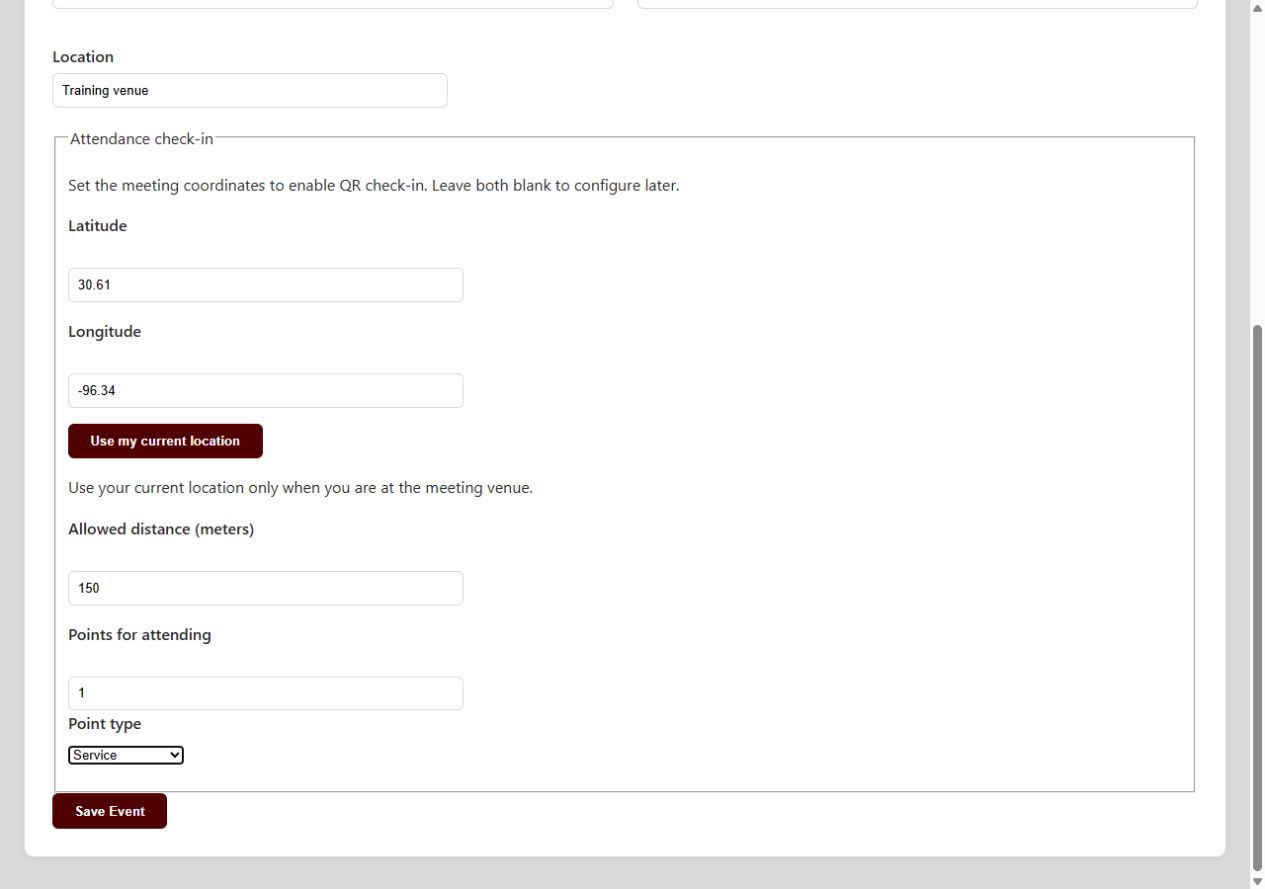
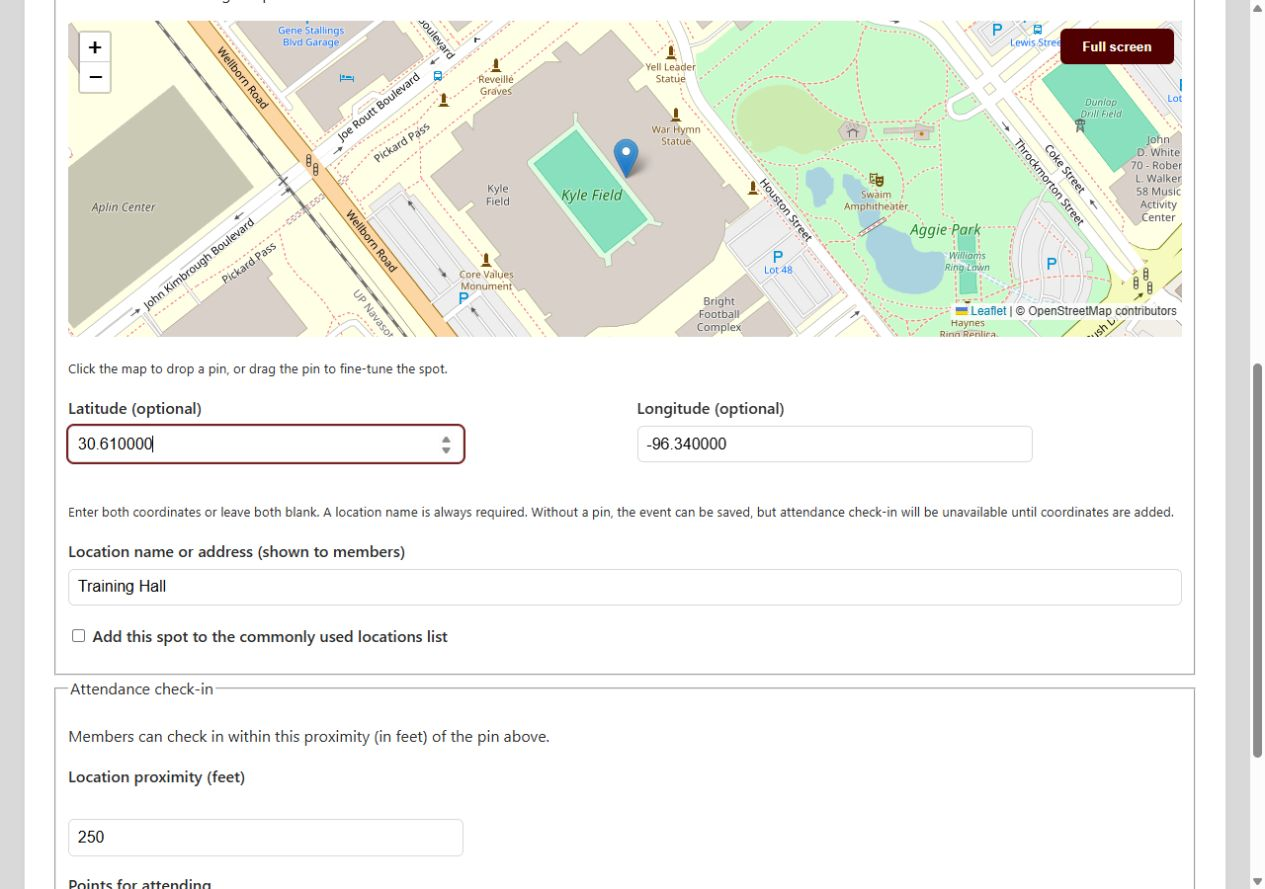
P5-45 Preserve event drafts when the location map loads or fails

diff --git a/app/javascript/controllers/location_picker_controller.js b/app/javascript/controllers/location_picker_controller.js
@@ -1,7 +1,9 @@
 import { Controller } from "@hotwired/stimulus"
 
+let leafletLoad
+
 // Officer-facing location picker: search -> pin on map -> drag/click to adjust,
-// or choose from a saved list. Writes latitude/longitude into hidden fields and
+// or choose from a saved list. Writes latitude/longitude into coordinate fields and
 // a readable name into the visible location field. Leaflet is loaded globally (L).
 export default class extends Controller {
   static targets = ["query", "results", "status", "map", "mapFrame", "mapError",
@@ -20,14 +22,20 @@ export default class extends Controller {
     pinZoom: { type: Number, default: 17 }
   }
 
-  connect() {
+  async connect() {
     this.autoNamed = false
     this.timer = null
-    this.restorePending()
-    this.initMap()
+    const connection = this.connection = {}
+    try {
+      await this.loadLeaflet()
+      if (this.connection === connection && this.element.isConnected) this.initMap()
+    } catch (_) {
+      if (this.connection === connection && this.element.isConnected) this.showMapError()
+    }
   }
 
   disconnect() {
+    this.connection = null
     if (this.fullscreen) this.exitFullscreen()
     clearTimeout(this.timer)
     this.searchAbort?.abort()
@@ -35,40 +43,42 @@ export default class extends Controller {
     this.destroyMap()
   }
 
-  // ---- reload (map fails to load on first Turbo visit) -------------------
+  // Share one asynchronous library request across Turbo visits. Never reload
+  // the page to recover a map: the rest of the event form is an unsaved draft.
+  loadLeaflet() {
+    if (window.L) return Promise.resolve()
+    if (leafletLoad) return leafletLoad
 
-  get pendingKey() { return `pendingLocation:${window.location.pathname}` }
-
-  maybeReload() {
-    if (this.map || this.reloaded) return   // map is fine, or we already reloaded once
-    sessionStorage.setItem(this.pendingKey, JSON.stringify({
-      lat: this.latitudeTarget.value,
-      lng: this.longitudeTarget.value,
-      name: this.nameTarget.value,
-      autoNamed: this.autoNamed
-    }))
-    window.location.reload()
-  }
-
-  restorePending() {
-    const raw = sessionStorage.getItem(this.pendingKey)
-    if (!raw) return
-    sessionStorage.removeItem(this.pendingKey)
-    this.reloaded = true
-    try {
-      const saved = JSON.parse(raw)
-      this.latitudeTarget.value = saved.lat
-      this.longitudeTarget.value = saved.lng
-      this.nameTarget.value = saved.name
-      this.autoNamed = saved.autoNamed
-    } catch (_) { /* ignore bad data */ }
+    leafletLoad = new Promise((resolve, reject) => {
+      const script = document.createElement("script")
+      script.src = "https://unpkg.com/leaflet@1.9.4/dist/leaflet.js"
+      script.crossOrigin = ""
+      script.async = true
+      const fail = () => {
+        clearTimeout(timeout)
+        script.remove()
+        leafletLoad = null
+        reject(new Error("The map could not be loaded"))
+      }
+      const timeout = setTimeout(fail, 10000)
+      script.addEventListener("error", fail, { once: true })
+      script.addEventListener("load", () => {
+        clearTimeout(timeout)
+        window.L ? resolve() : fail()
+      }, { once: true })
+      document.head.appendChild(script)
+    })
+    return leafletLoad
   }
 
   // ---- map ---------------------------------------------------------------
 
   initMap() {
     try {
-      if (typeof L === "undefined") throw new Error("Leaflet did not load")
+      const L = window.L
+      if (!L) throw new Error("Leaflet did not load")
+      this.mapFrameTarget.hidden = false
+      this.mapErrorTarget.hidden = true
 
       const lat = parseFloat(this.latitudeTarget.value)
       const lng = parseFloat(this.longitudeTarget.value)
@@ -169,7 +179,7 @@ export default class extends Controller {
       this.marker.setLatLng([lat, lng])
       return
     }
-    this.marker = L.marker([lat, lng], {
+    this.marker = window.L.marker([lat, lng], {
       draggable: true,
       keyboard: true,
       title: "Event location (drag to adjust)"
@@ -192,7 +202,6 @@ export default class extends Controller {
       this.nameTarget.value = label
       this.autoNamed = true
       this.setStatus("Location selected. Drag the pin to fine-tune it.")
-      this.maybeReload()
     } else if (reverse && (this.nameTarget.value.trim() === "" || this.autoNamed)) {
       this.reverseLookup(lat, lng)
     } else {
@@ -213,21 +222,34 @@ export default class extends Controller {
 
   useMyLocation() {
     if (!navigator.geolocation) {
-      this.setStatus("Your browser can't share its location. Search or use the map instead.", { error: true })
+      this.setStatus("Your browser can't share its location. Enter coordinates manually, search, or choose from the list.", { error: true })
       return
     }
     this.setStatus("Finding your location…")
     navigator.geolocation.getCurrentPosition(
       (position) => {
+        if (!this.element.isConnected) return
         this.setPoint(position.coords.latitude, position.coords.longitude, { reverse: true, recenter: true })
       },
-      () => this.setStatus("Couldn't get your location. Search or use the map instead.", { error: true }),
+      () => {
+        if (!this.element.isConnected) return
+        this.setStatus("Couldn't get your location. Your event details are still here. Enter coordinates manually, search, or choose from the list.", { error: true })
+      },
       { enableHighAccuracy: true, timeout: 10000 }
     )
   }
 
   nameEdited() {
     this.autoNamed = false
+  }
+
+  coordinatesEdited() {
+    const lat = parseFloat(this.latitudeTarget.value)
+    const lng = parseFloat(this.longitudeTarget.value)
+    if (Number.isFinite(lat) && Math.abs(lat) <= 90 && Number.isFinite(lng) && Math.abs(lng) <= 180) {
+      this.placeMarker(lat, lng)
+      if (this.map) this.map.setView([lat, lng], this.pinZoomValue)
+    }
   }
 
   // ---- search ------------------------------------------------------------
@@ -306,11 +328,9 @@ export default class extends Controller {
       } else {
         this.setStatus("Pin placed, but no address was found. Type a name for this spot below.", { error: true })
       }
-      this.maybeReload()
     } catch (error) {
       if (error.name === "AbortError") return
       this.setStatus("Pin placed, but the address lookup failed. Type a name for this spot below.", { error: true })
-      this.maybeReload()
     }
   }
 
@@ -340,13 +360,15 @@ export default class extends Controller {
   validate(event) {
     const lat = parseFloat(this.latitudeTarget.value)
     const lng = parseFloat(this.longitudeTarget.value)
+    const noPoint = this.latitudeTarget.value.trim() === "" && this.longitudeTarget.value.trim() === ""
     const pointOk = Number.isFinite(lat) && Math.abs(lat) <= 90 &&
                     Number.isFinite(lng) && Math.abs(lng) <= 180
 
-    if (!pointOk || this.nameTarget.value.trim() === "") {
+    if ((!noPoint && !pointOk) || this.nameTarget.value.trim() === "") {
       event.preventDefault()
-      this.setStatus(pointOk ? this.missingNameMessageValue : this.missingLocationMessageValue, { error: true })
-      ;(pointOk ? this.nameTarget : this.queryTarget).focus()
+      const missingName = this.nameTarget.value.trim() === ""
+      this.setStatus(missingName ? this.missingNameMessageValue : this.missingLocationMessageValue, { error: true })
+      ;(missingName ? this.nameTarget : this.latitudeTarget).focus()
     }
   }
 

diff --git a/spec/requests/event_location_picker_spec.rb b/spec/requests/event_location_picker_spec.rb
@@ -54,7 +54,7 @@ RSpec.describe "Event location picker", type: :request do
       expect(response.parsed_body["results"].first["label"]).to eq("Student Center, 100 Campus Dr")
     end
 
-    it "shows the map, search box and saved list, with no raw latitude/longitude inputs" do
+    it "shows the map, search box, saved list, and optional manual coordinates" do
          SavedLocation.create!(name: "PT Clinic", latitude: 30.62, longitude: -96.33)
 
       get new_event_path
@@ -64,8 +64,9 @@ RSpec.describe "Event location picker", type: :request do
       expect(doc.at_css('[data-location-picker-target="map"]')).to be_present
       expect(doc.at_css('[data-location-picker-target="query"]')).to be_present
       expect(doc.at_css('option[data-name="PT Clinic"]')).to be_present
-      expect(doc.at_css('input[name="event[latitude]"]')["type"]).to eq("hidden")
-      expect(doc.at_css('input[name="event[longitude]"]')["type"]).to eq("hidden")
+      expect(doc.at_css('input[name="event[latitude]"]')["type"]).to eq("number")
+      expect(doc.at_css('input[name="event[longitude]"]')["type"]).to eq("number")
+      expect(doc.at_css('label[for="event_latitude"]').text).to include("optional")
     end
 
     it "stores coordinates in the background and shows members a readable location" do
@@ -135,7 +136,7 @@ RSpec.describe "Event location picker", type: :request do
            get new_event_path
 
            expect(response.body).to include(
-             "The map could not be loaded. Choose from the list or try again later."
+             "The map could not be loaded. Your event details are still here."
            )
            expect(Nokogiri::HTML(response.body).at_css('option[data-name="PT Clinic"]')).to be_present
          end
@@ -146,7 +147,33 @@ RSpec.describe "Event location picker", type: :request do
            expect { post events_path, params: { event: attrs } }.not_to change(Event, :count)
 
            expect(response).to have_http_status(:unprocessable_entity)
-           expect(response.body).to include("Choose a location on the map before saving.")
+           expect(response.body).to include("Location can&#39;t be blank")
+         end
+
+         it "can save all event details without a pin when a location name is supplied" do
+              attrs = valid_attributes.merge(latitude: "", longitude: "", ends_at: 3.days.from_now)
+
+           expect { post events_path, params: { event: attrs, save_as_location: "1" } }.to change(Event, :count).by(1)
+
+           event = Event.order(:id).last
+           expect(event).to have_attributes(name: attrs[:name], description: attrs[:description], location: attrs[:location])
+           expect(event.starts_at).to be_within(1.second).of(attrs[:starts_at])
+           expect(event.ends_at).to be_within(1.second).of(attrs[:ends_at])
+           expect(event.check_in_configured?).to be false
+           expect(SavedLocation.count).to eq(0)
+         end
+
+         it "preserves every entered field when validation fails" do
+              attrs = valid_attributes.merge(ends_at: 1.day.from_now)
+           post events_path, params: { event: attrs }
+
+           expect(response).to have_http_status(:unprocessable_entity)
+           doc = Nokogiri::HTML(response.body)
+           expect(doc.at_css('#event_name')["value"]).to eq(attrs[:name])
+           expect(doc.at_css('#event_description').text.delete_prefix("\n")).to eq(attrs[:description])
+           expect(doc.at_css('#event_starts_at')["value"]).to start_with(attrs[:starts_at].strftime("%Y-%m-%dT%H:%M"))
+           expect(doc.at_css('#event_ends_at')["value"]).to start_with(attrs[:ends_at].strftime("%Y-%m-%dT%H:%M"))
+           expect(doc.at_css('#event_location')["value"]).to eq(attrs[:location])
          end
 
          it "does not save an event with a pin but no readable name" do

diff --git a/spec/requests/events_spec.rb b/spec/requests/events_spec.rb
@@ -22,16 +22,20 @@ RSpec.describe "Events", type: :request do
     expect(response).to redirect_to(events_path)
   end
 
-  it "does not create an event without a location pin" do
+  it "creates a named event without a pin and requires coordinates before sharing check-in" do
     expect {
       post events_path, params: { event: {
         name: "Meeting", description: "Details",
         starts_at: "2026-10-01 10:00", location: "Room 1"
       } }
-    }.not_to change(Event, :count)
+    }.to change(Event, :count).by(1)
 
-    expect(response).to have_http_status(422)
-    expect(CGI.unescapeHTML(response.body)).to include("Choose a location on the map before saving.")
+    expect(response).to redirect_to(events_path)
+    event = Event.order(:id).last
+    expect(event).not_to be_check_in_configured
+
+    get check_in_qr_event_path(event)
+    expect(response).to redirect_to(edit_event_path(event))
   end
 
   it "does not create an event when a required field is blank" do

diff --git a/spec/models/event_location_spec.rb b/spec/models/event_location_spec.rb
@@ -1,18 +1,16 @@
 require "rails_helper"
 
-# Event itself already tests name presence, coordinate bounds and pairing
-# (spec/models/event_spec.rb). These cover only what the location picker added.
-RSpec.describe EventLocationValidations do
+RSpec.describe Event do
      it "is valid with a name and a pin" do
           expect(build(:event, location: "Student Center, 100 Campus Dr",
                                latitude: 30.61, longitude: -96.34)).to be_valid
      end
 
-  it "requires a pin" do
+  it "allows a named venue without a pin when the map is unavailable" do
        event = build(:event, latitude: nil, longitude: nil)
 
-    expect(event).not_to be_valid
-    expect(event.errors[:base]).to include("Choose a location on the map before saving.")
+    expect(event).to be_valid
+    expect(event.check_in_configured?).to be false
   end
 
   it "requires a readable location name" do

diff --git a/spec/models/event_spec.rb b/spec/models/event_spec.rb
@@ -1,12 +1,12 @@
 require "rails_helper"
 
 RSpec.describe Event, type: :model do
-  it "requires a location pin, so every new event has check-in configured" do
+  it "allows a named event without a pin while leaving check-in unconfigured" do
     expect(build(:event)).to be_check_in_configured
 
     event = build(:event, latitude: nil, longitude: nil)
-    expect(event).not_to be_valid
-    expect(event.errors[:base]).to include("Choose a location on the map before saving.")
+    expect(event).to be_valid
+    expect(event).not_to be_check_in_configured
   end
 
   it "belongs to a requirement" do

diff --git a/app/controllers/events_controller.rb b/app/controllers/events_controller.rb
@@ -126,6 +126,8 @@ class EventsController < ApplicationController
   end
 
   def remember_location(event)
+    return unless event.check_in_configured?
+
     SavedLocation.find_or_create_by(name: event.location.strip) do |saved|
       saved.latitude = event.latitude
       saved.longitude = event.longitude

diff --git a/app/models/event.rb b/app/models/event.rb
@@ -1,5 +1,4 @@
 class Event < ApplicationRecord
-  include EventLocationValidations
   belongs_to :requirement, optional: true
   has_many :attendances, dependent: :destroy
   has_many :members, through: :attendances

diff --git a/README.md b/README.md
@@ -26,7 +26,7 @@ bundle exec rails db:prepare
 RAILS_ENV=test bundle exec rails db:prepare
 bundle exec rspec spec/
 bundle exec rubocop
-node --test spec/javascript/location_controllers_test.cjs
+node --test spec/javascript/*.cjs
 ```
 
 The test database is `pt502_test` and is disposable. The Procfile starts Puma
